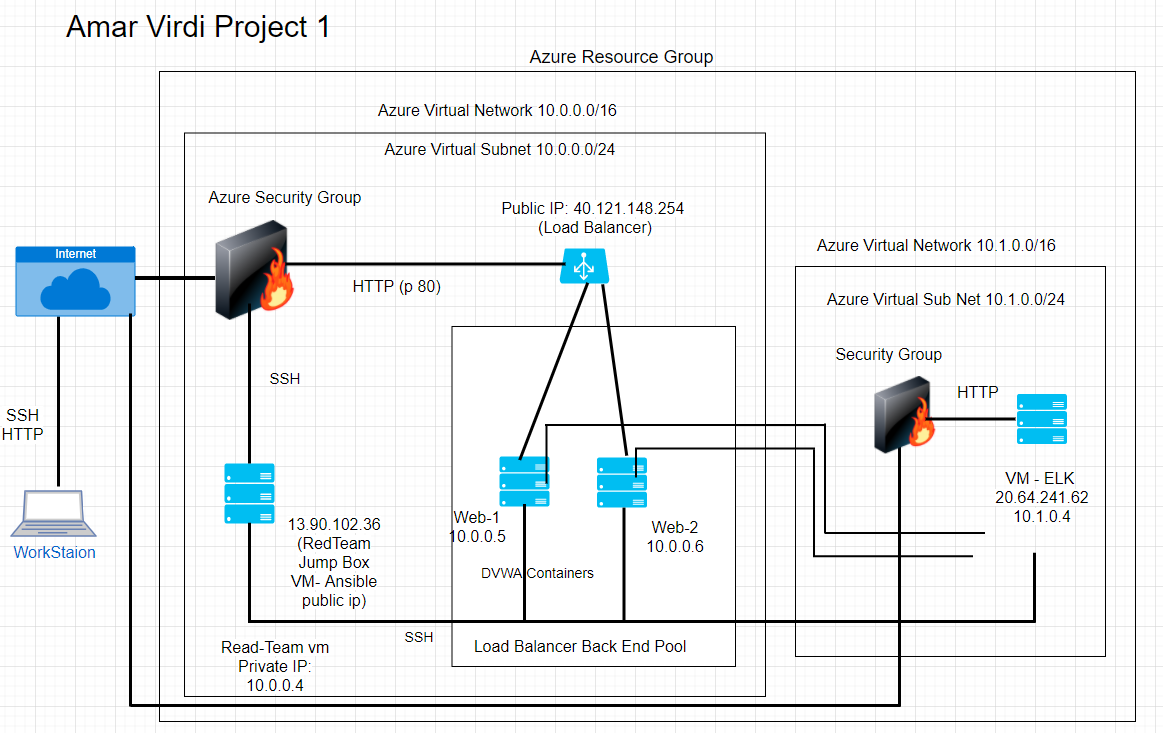
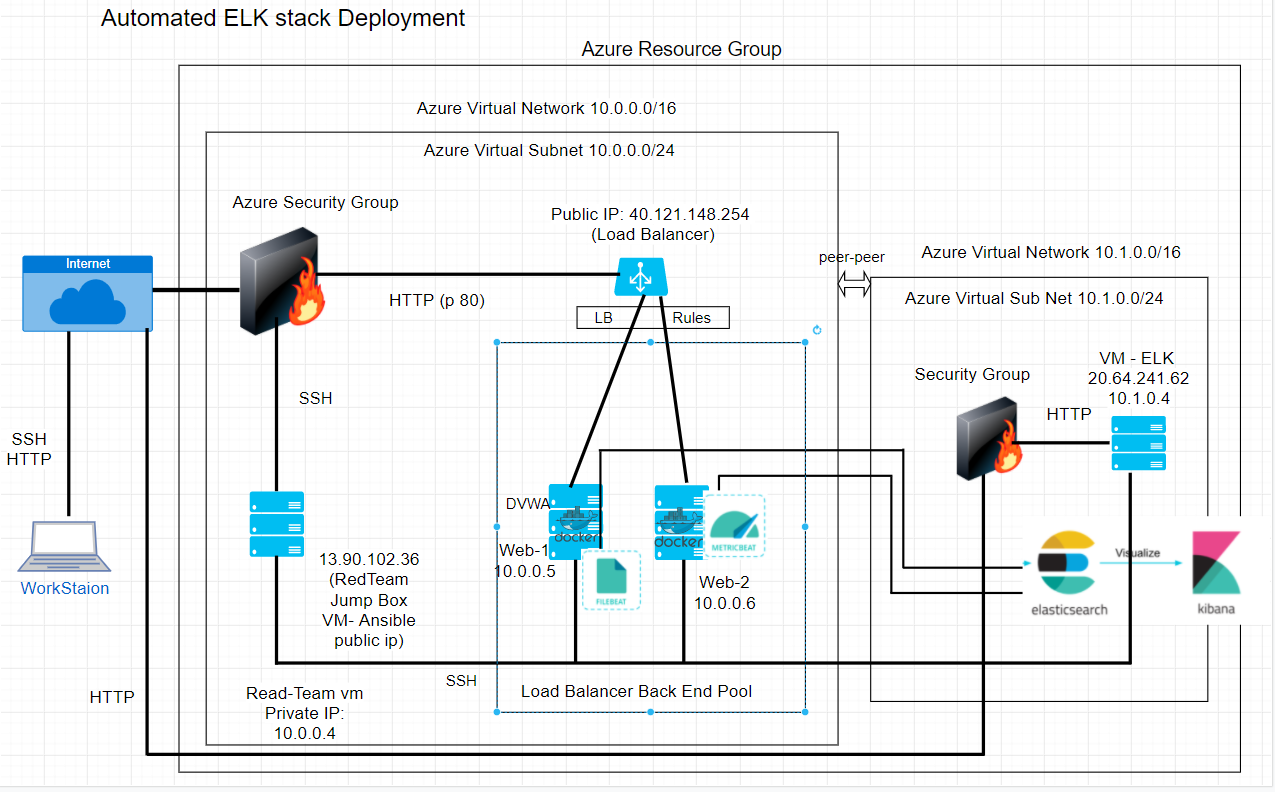
forteenth commit

diff --git a/README.md b/README.md
@@ -4,9 +4,7 @@ The files in this repository were used to configure the network depicted below.
 
 ![TODO: Update the path with the name of your diagram](Diagrams/elk-diagram.png)
 
-These files have been tested and used to generate a live ELK deployment on Azure. They can be used to either recreate the entire deployment pictured above. Alternatively, select portions of the _____ file may be used to install only certain pieces of it, such as Filebeat.
-
-  - _TODO: Enter the playbook file._
+These files have been tested and used to generate a live ELK deployment on Azure. They can be used to either recreate the entire deployment pictured above. Alternatively, select portions of the yml file may be used to install only certain pieces of it, such as Filebeat.
 
 This document contains the following details:
 - Description of the Topology
@@ -107,8 +105,7 @@ The following screenshot displays the result of running `docker ps` after succes
 ![TODO: Update the path with the name of your screenshot of docker ps output](Images/docker_ps_output.png)
 
 ### Target Machines & Beats
-This ELK server is configured to monitor the following machines:
-- _TODO: List the IP addresses of the machines you are monitoring_
+This ELK server is configured to monitor the following machines: 
 Web-1 and Web-2 are being monitored with private IP addresses 10.0.0.5 and 10.0.0.6 via the peer-to-peer networking.
 
 We have installed the following Beats on these machines: Filebeats and Metricbeats have been successfully installed
@@ -133,11 +130,11 @@ The folders containing the required files are organized in the Ansible machine a
 
 ```
 etc # should already exist.
-----> ansible # should already exist.
----------> ansible.cfg # should already exist.
----------> hosts # should already exist.
----------> roles # this is a new directory that will contain your ansible playbooks.
---------------> files # this is a new directory that will contain the configuration files we pass to you.
+----> ansible # 
+---------> ansible.cfg  
+---------> hosts # 
+---------> roles # this is a new directory that will contain our ansible playbooks.
+--------------> files # this is a new directory that will contain the configuration files.
 ```
 ---
 
